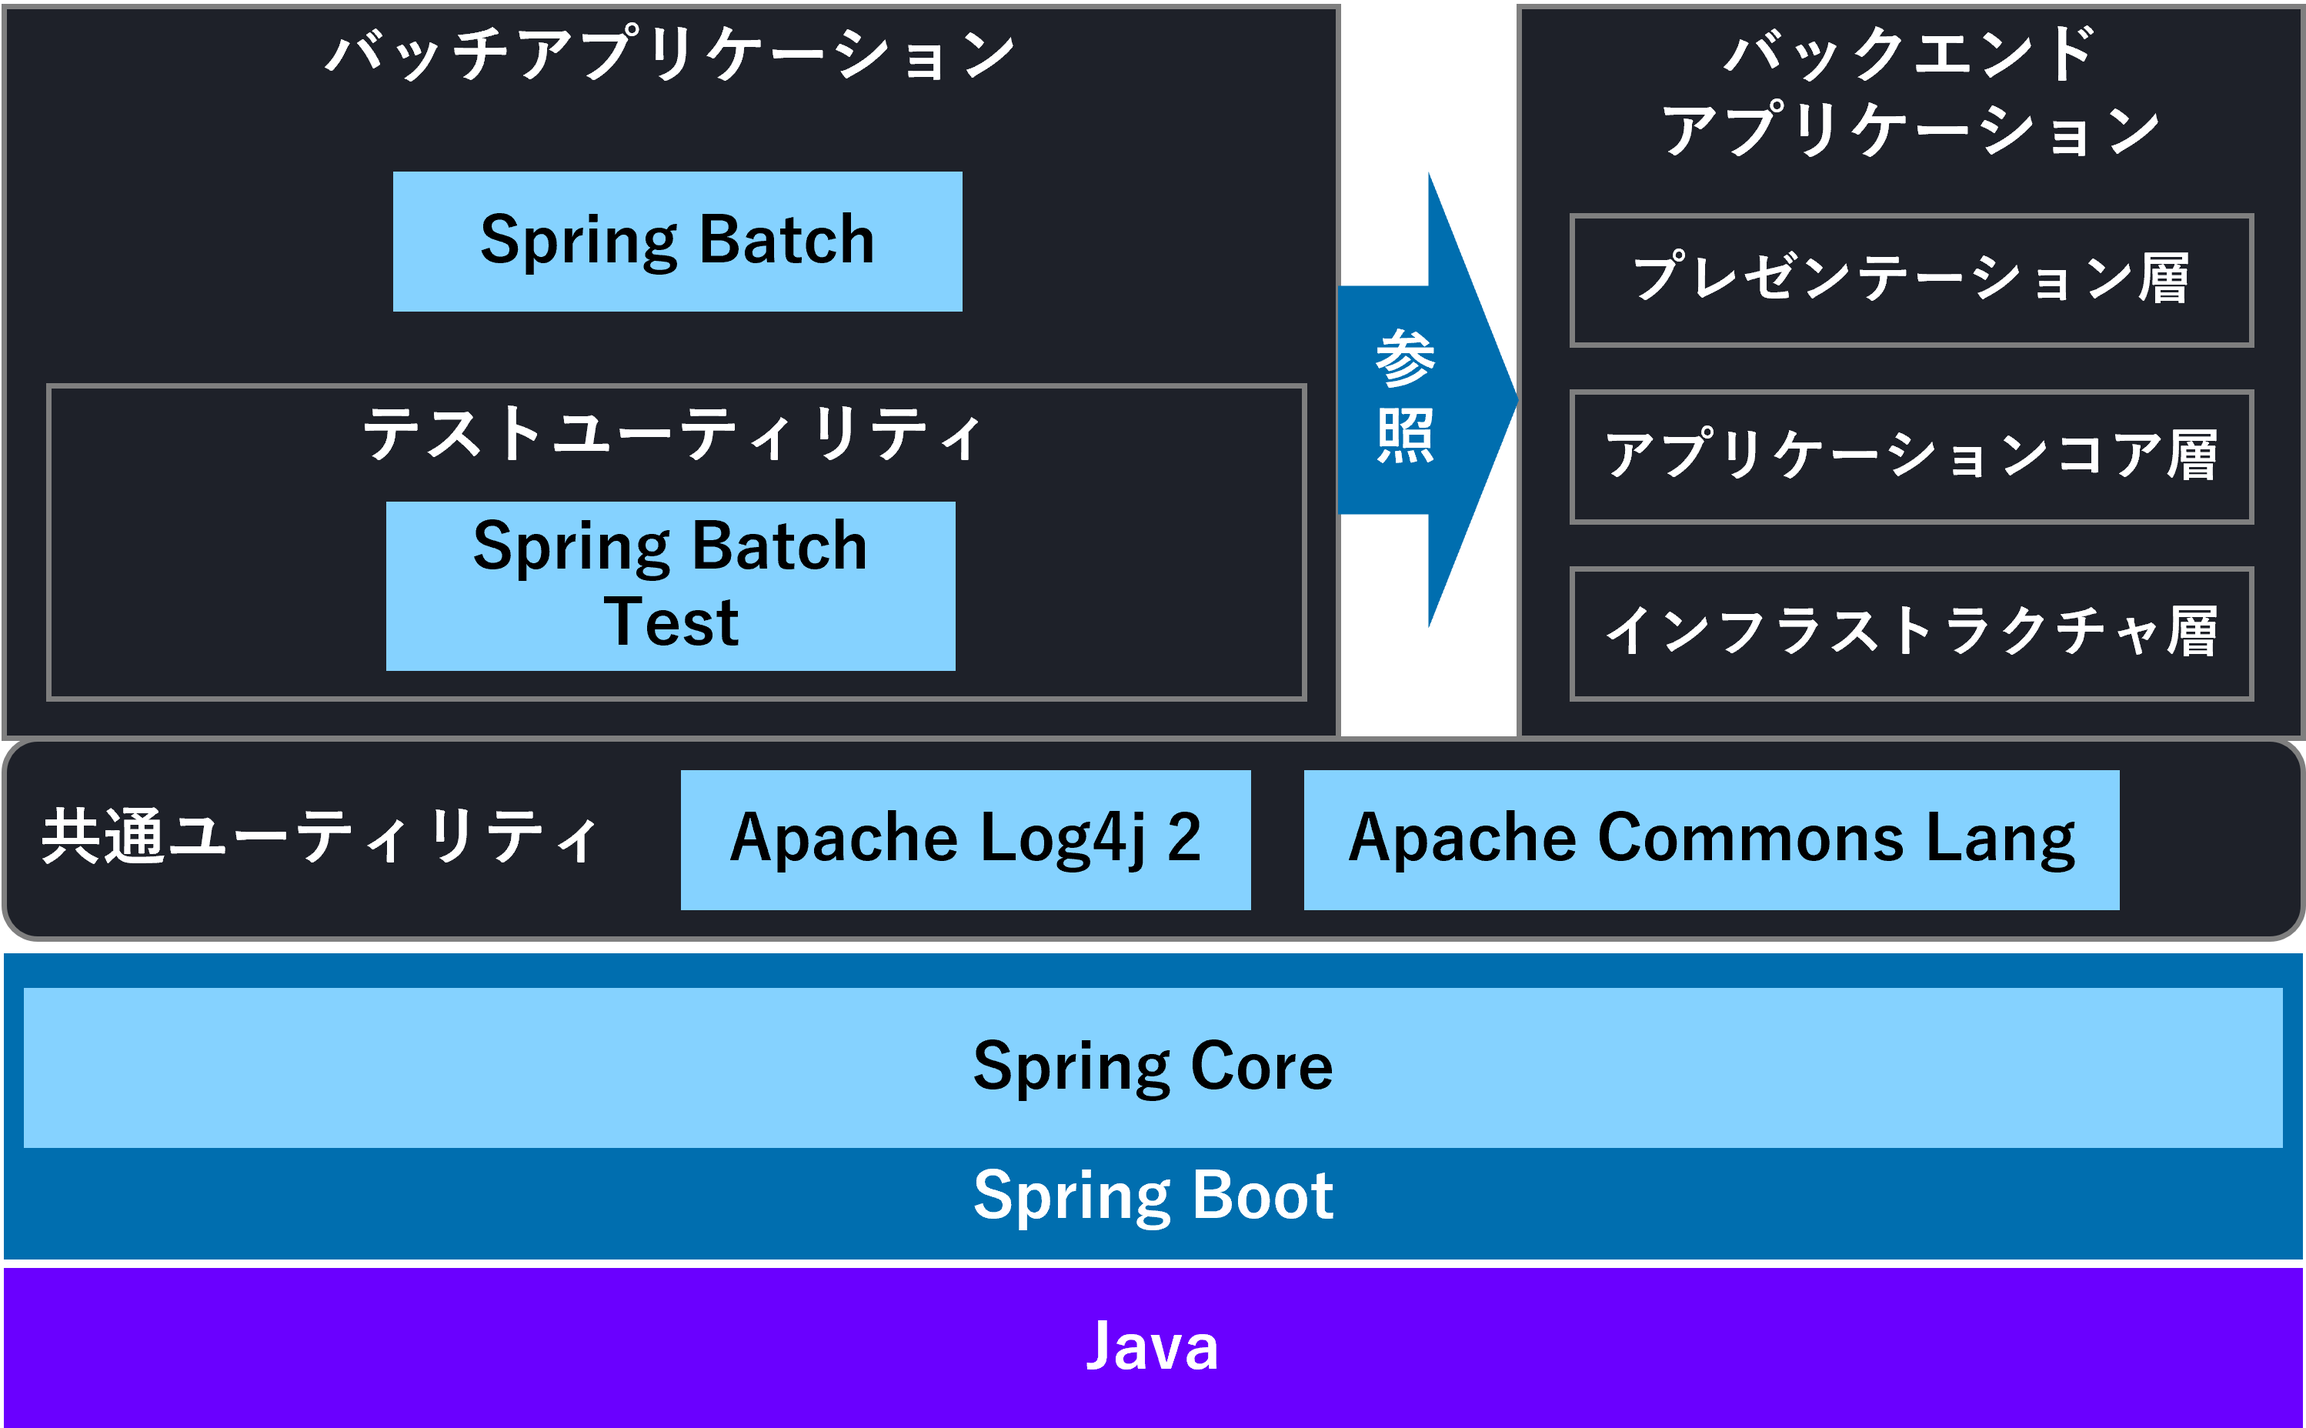
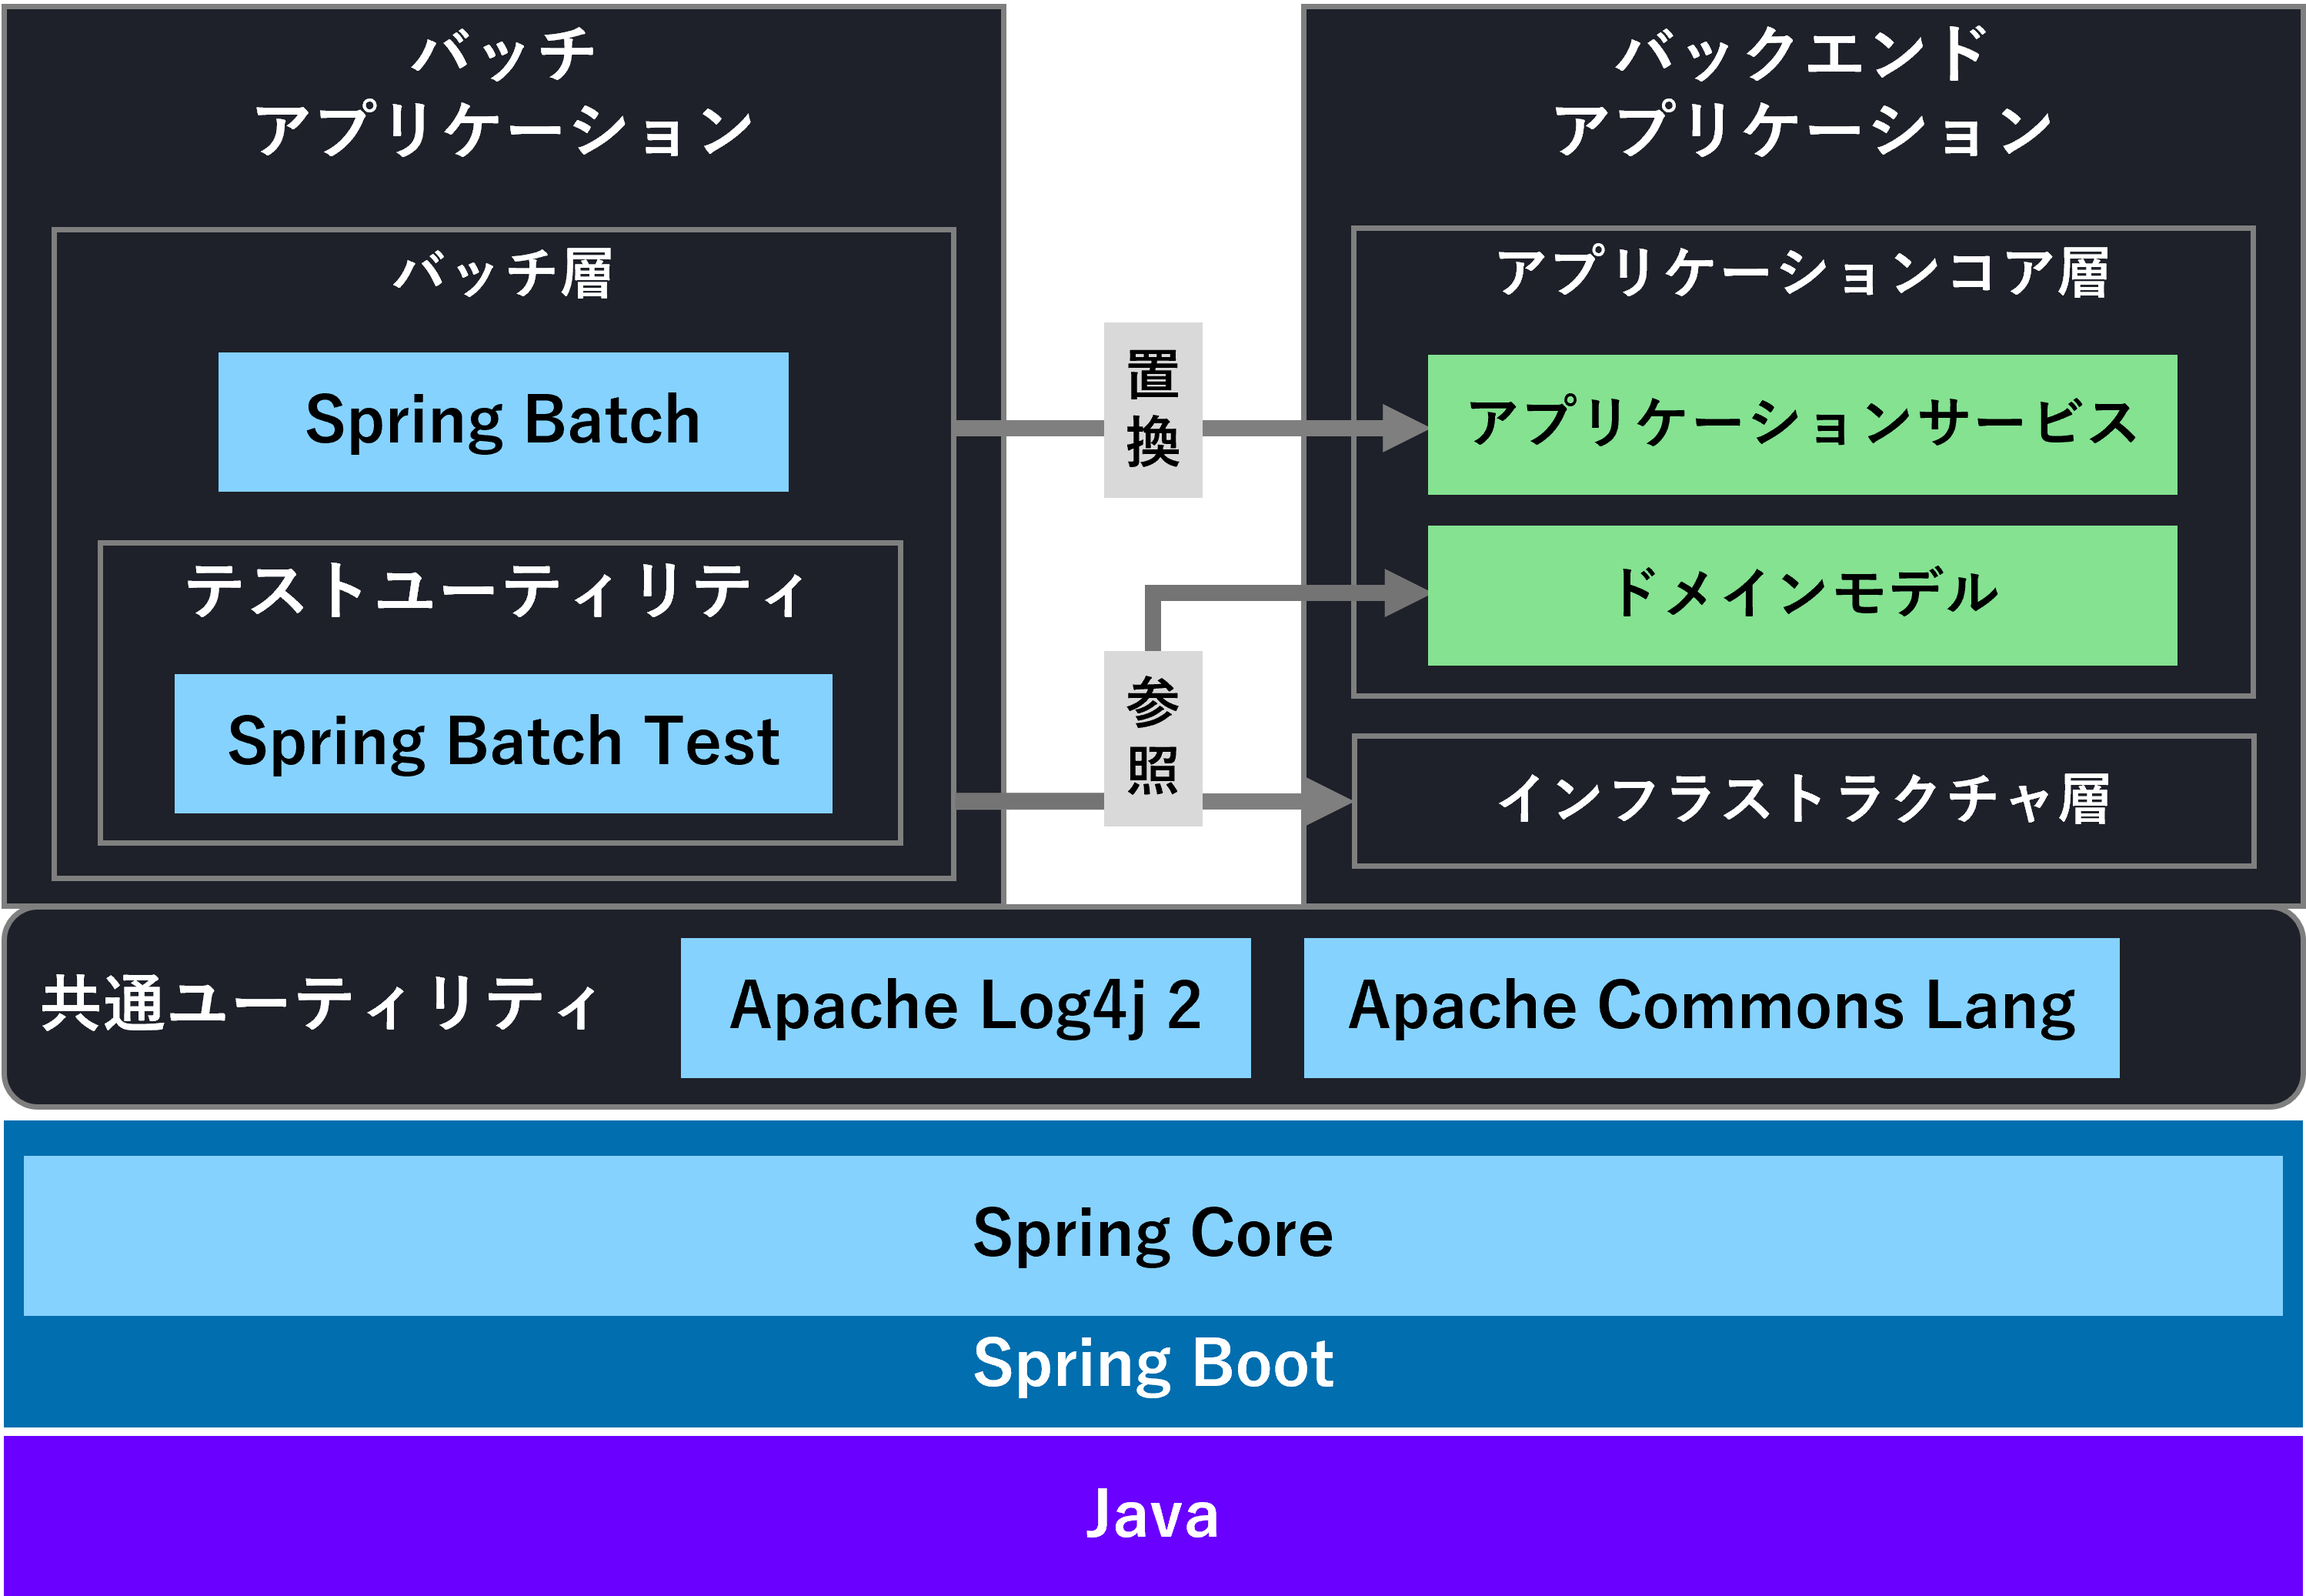
バッチアプリケーションのアーキテクチャに関する説明を修正

diff --git a/documents/contents/app-architecture/batch-application/batch-application-architecture.md b/documents/contents/app-architecture/batch-application/batch-application-architecture.md
@@ -14,7 +14,8 @@ AlesInfiny Maia OSS Edition （以降、 AlesInfiny Maia）において、バッ
 ![アーキテクチャ概要図](../../images/app-architecture/batch-application/batch-library-light.png#only-light){ loading=lazy }
 ![アーキテクチャ概要図](../../images/app-architecture/batch-application/batch-library-dark.png#only-dark){ loading=lazy }
 
-なお、本アーキテクチャでは、図の通り [クライアントサイドレンダリング方式の Web アプリケーション](../client-side-rendering/csr-architecture-overview.md) を参照・利用しています。
+なお、本アーキテクチャでは、図の通り [クライアントサイドレンダリング方式の Web アプリケーション](../client-side-rendering/csr-architecture-overview.md) の一部を参照しています。
+具体的には、インフラストラクチャ層およびアプリケーションコア層のドメインモデルを参照し再利用しているほか、アプリケーションコア層のビジネスロジックにあたるアプリケーションサービスをバッチアプリケーションが置換している形になります。
 Web アプリケーションの利用ライブラリについては、[こちら](../client-side-rendering/csr-architecture-overview.md#technology-stack) をご覧ください。
 
 ### 利用ライブラリ {#oss-library}
